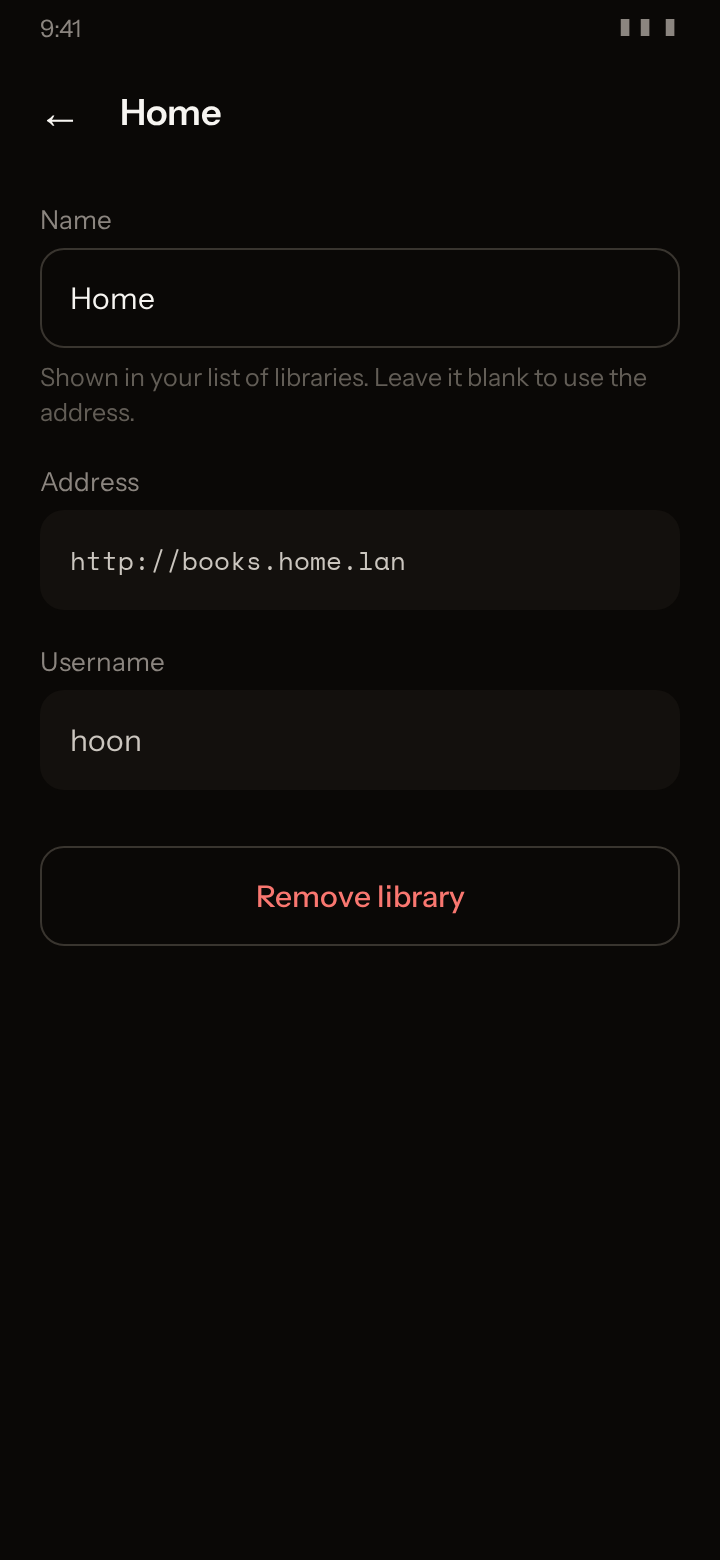
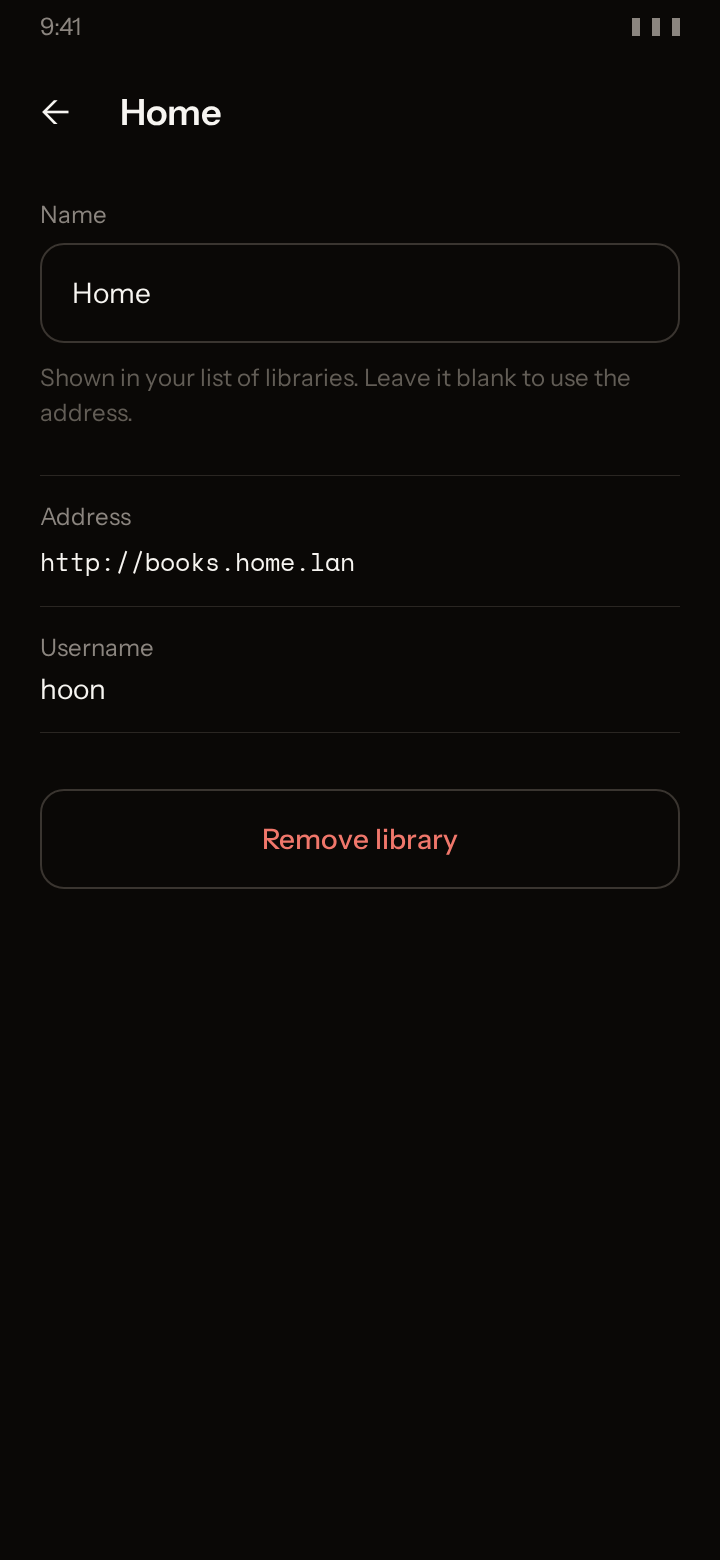
feat(libraries): show a library's address and username as plain rows
The filled boxes looked like inputs that ignored taps. The address and
username are now plain label and value rows between hairlines, so only
the name looks editable. The spec moves to 1.0.2 with refreshed renders.

diff --git a/omnibus/app/src/main/java/com/omnibus/omnibus/feature/libraries/manage/LibraryDetailScreen.kt b/omnibus/app/src/main/java/com/omnibus/omnibus/feature/libraries/manage/LibraryDetailScreen.kt
@@ -2,7 +2,6 @@ package com.omnibus.omnibus.feature.libraries.manage
 
 import androidx.compose.foundation.background
 import androidx.compose.foundation.layout.Arrangement
-import androidx.compose.foundation.layout.Box
 import androidx.compose.foundation.layout.Column
 import androidx.compose.foundation.layout.ColumnScope
 import androidx.compose.foundation.layout.fillMaxSize
@@ -12,10 +11,10 @@ import androidx.compose.foundation.layout.imePadding
 import androidx.compose.foundation.layout.padding
 import androidx.compose.foundation.layout.widthIn
 import androidx.compose.foundation.rememberScrollState
-import androidx.compose.foundation.shape.RoundedCornerShape
 import androidx.compose.foundation.text.KeyboardActions
 import androidx.compose.foundation.text.KeyboardOptions
 import androidx.compose.foundation.verticalScroll
+import androidx.compose.material3.HorizontalDivider
 import androidx.compose.material3.Text
 import androidx.compose.runtime.Composable
 import androidx.compose.runtime.DisposableEffect
@@ -25,7 +24,6 @@ import androidx.compose.runtime.getValue
 import androidx.compose.runtime.rememberUpdatedState
 import androidx.compose.ui.Alignment
 import androidx.compose.ui.Modifier
-import androidx.compose.ui.draw.clip
 import androidx.compose.ui.focus.FocusManager
 import androidx.compose.ui.platform.LocalFocusManager
 import androidx.compose.ui.platform.testTag
@@ -45,7 +43,6 @@ import com.omnibus.omnibus.R
 import com.omnibus.omnibus.data.libraries.LibraryHost
 import com.omnibus.omnibus.ui.components.OmnibusTextField
 import com.omnibus.omnibus.ui.theme.OmnibusTheme
-import com.omnibus.omnibus.ui.theme.Radius
 import com.omnibus.omnibus.ui.theme.Spacing
 import com.omnibus.omnibus.ui.theme.monoTextStyle
 import com.omnibus.omnibus.ui.theme.uiTextStyle
@@ -144,19 +141,25 @@ internal fun LibraryDetailScreenContent(
                         host = LibraryHost.of(library.address),
                         onNameChange = onNameChange,
                     )
-                    ReadOnlyField(
-                        label = stringResource(R.string.libraries_detail_address_label),
-                        value = library.address,
-                        testTag = LibraryDetailTestTags.ADDRESS,
-                        mono = true,
-                    )
-                    library.username?.let { username ->
-                        ReadOnlyField(
-                            label = stringResource(R.string.libraries_detail_username_label),
-                            value = username,
-                            testTag = LibraryDetailTestTags.USERNAME,
-                            mono = false,
+                    // Plain rows rather than boxes, so only the name looks like something to edit.
+                    Column(Modifier.padding(top = Spacing.sm)) {
+                        HorizontalDivider(thickness = 0.5.dp, color = palette.line)
+                        ReadOnlyRow(
+                            label = stringResource(R.string.libraries_detail_address_label),
+                            value = library.address,
+                            testTag = LibraryDetailTestTags.ADDRESS,
+                            mono = true,
                         )
+                        HorizontalDivider(thickness = 0.5.dp, color = palette.line)
+                        library.username?.let { username ->
+                            ReadOnlyRow(
+                                label = stringResource(R.string.libraries_detail_username_label),
+                                value = username,
+                                testTag = LibraryDetailTestTags.USERNAME,
+                                mono = false,
+                            )
+                            HorizontalDivider(thickness = 0.5.dp, color = palette.line)
+                        }
                     }
                     actions()
                 }
@@ -193,31 +196,26 @@ private fun NameField(name: String, host: String, onNameChange: (String) -> Unit
     }
 }
 
-/** A label over a value the reader can't edit. The label and value are one TalkBack element. */
+/**
+ * A label over a value the reader can't edit, drawn as plain text with no field box. The label and value are one
+ * TalkBack element.
+ */
 @Composable
-private fun ReadOnlyField(label: String, value: String, testTag: String, mono: Boolean) {
+private fun ReadOnlyRow(label: String, value: String, testTag: String, mono: Boolean) {
     val palette = OmnibusTheme.palette
     Column(
         Modifier
             .fillMaxWidth()
+            .heightIn(min = 48.dp)
             .semantics(mergeDescendants = true) {}
-            .testTag(testTag),
+            .testTag(testTag)
+            .padding(vertical = 14.dp),
         verticalArrangement = Arrangement.spacedBy(Spacing.xs),
     ) {
         Text(label, style = uiTextStyle(14, FontWeight.Normal, palette.ink2))
-        Box(
-            Modifier
-                .fillMaxWidth()
-                .heightIn(min = 48.dp)
-                .clip(RoundedCornerShape(Radius.md))
-                .background(palette.bg1)
-                .padding(horizontal = 14.dp, vertical = 13.dp),
-            contentAlignment = Alignment.CenterStart,
-        ) {
-            Text(
-                value,
-                style = if (mono) monoTextStyle(15, palette.ink1) else uiTextStyle(16, FontWeight.Normal, palette.ink1),
-            )
-        }
+        Text(
+            value,
+            style = if (mono) monoTextStyle(15, palette.ink0) else uiTextStyle(16, FontWeight.Normal, palette.ink0),
+        )
     }
 }

diff --git a/omnibus/docs/features/library-switcher.md b/omnibus/docs/features/library-switcher.md
@@ -2,7 +2,7 @@
 
 | Version | Status | Last updated |
 |---|---|---|
-| 1.0.1 | Accepted | 2026-11-25 |
+| 1.0.2 | Accepted | 2026-11-25 |
 
 ## Summary
 
@@ -86,6 +86,7 @@ The library switcher is for readers who have accounts on more than one Omnibus s
 
 - The detail screen's title is the library's name, and it follows the name field as it changes.
 - A rename is saved when the reader leaves the screen.
+- The address and username are plain text rows, not fields, so only the name looks like something to edit.
 
 ### Removing a library
 
@@ -384,6 +385,10 @@ The feature follows the layers in `docs/engineering/feature-layers.md`.
 ---
 
 ## Changelog
+
+**1.0.2** (2026-11-25)
+
+- The library detail screen shows the address and username as plain text rows instead of field boxes, with refreshed renders. Why: the filled boxes looked like inputs that ignored taps. No behaviour changes.
 
 **1.0.1** (2026-11-25)
 
